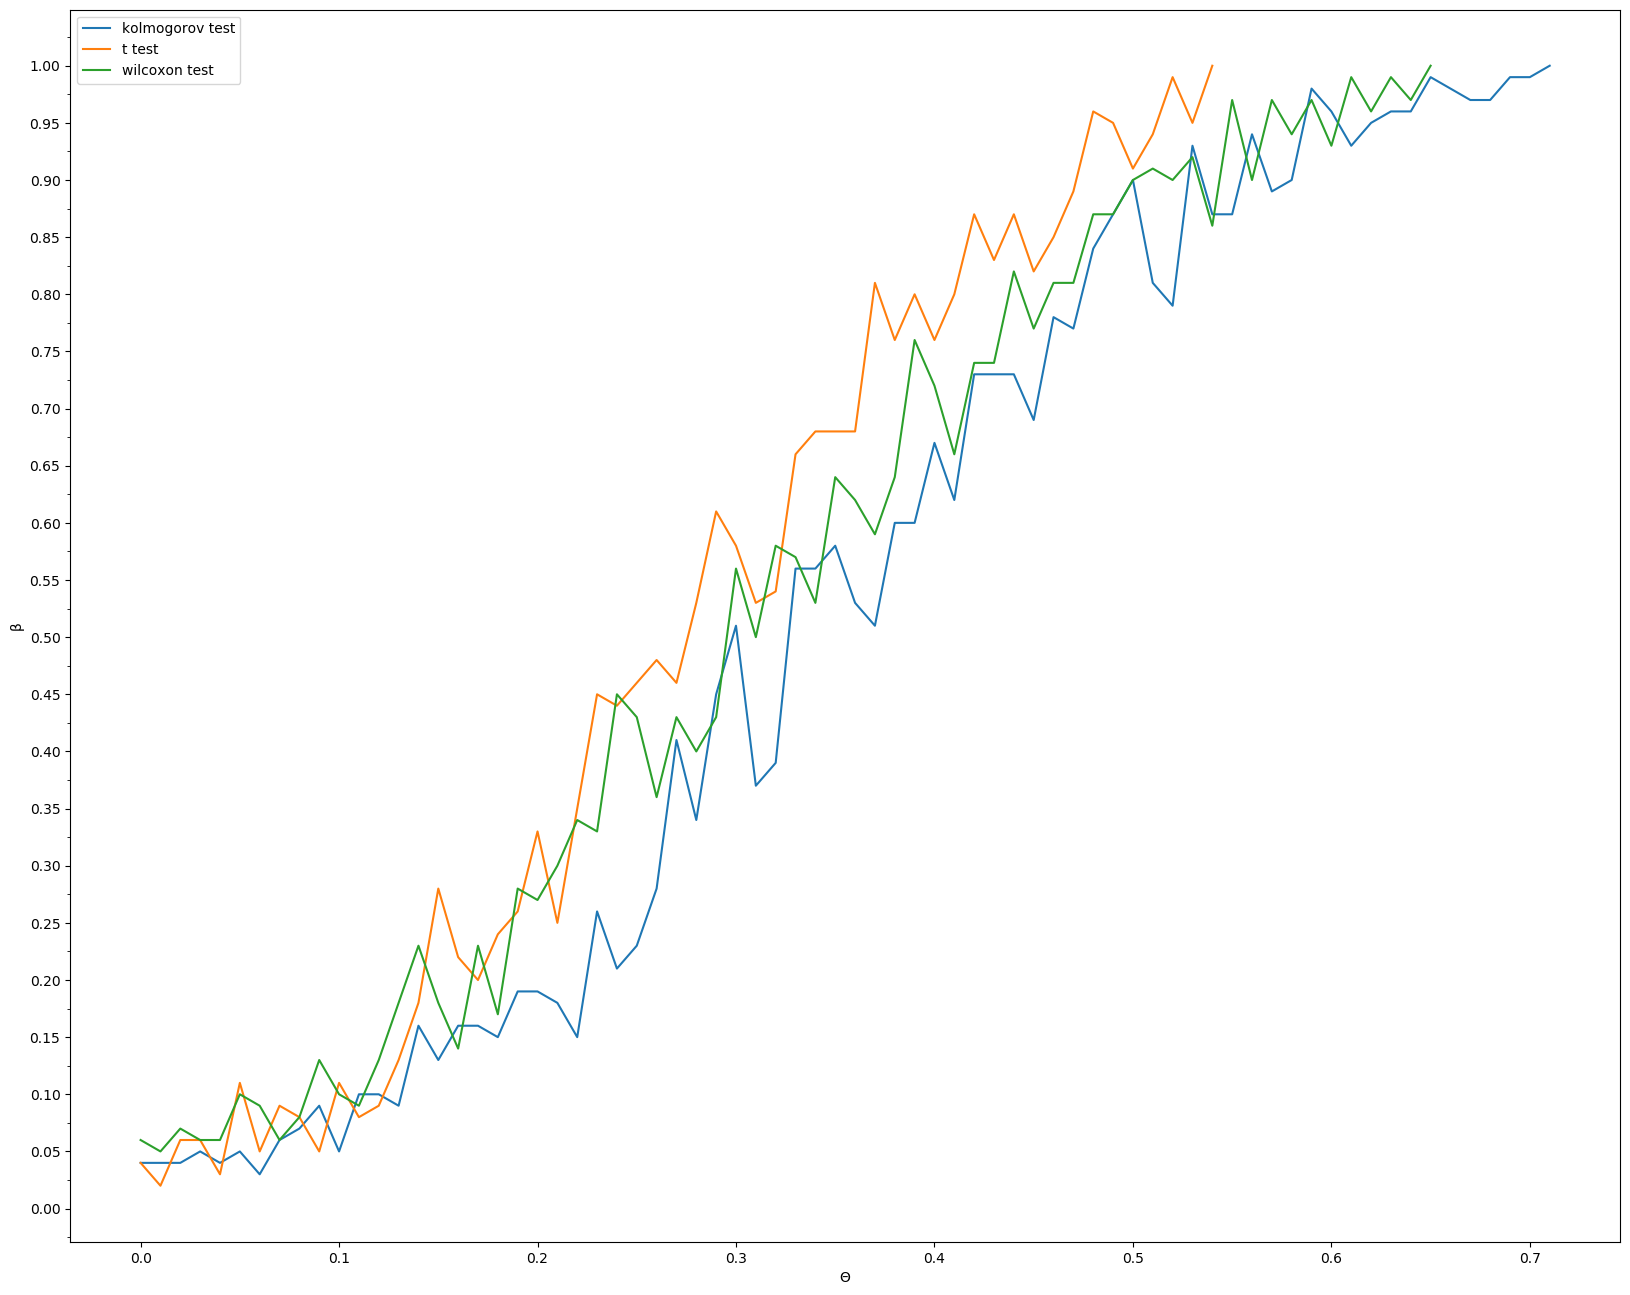
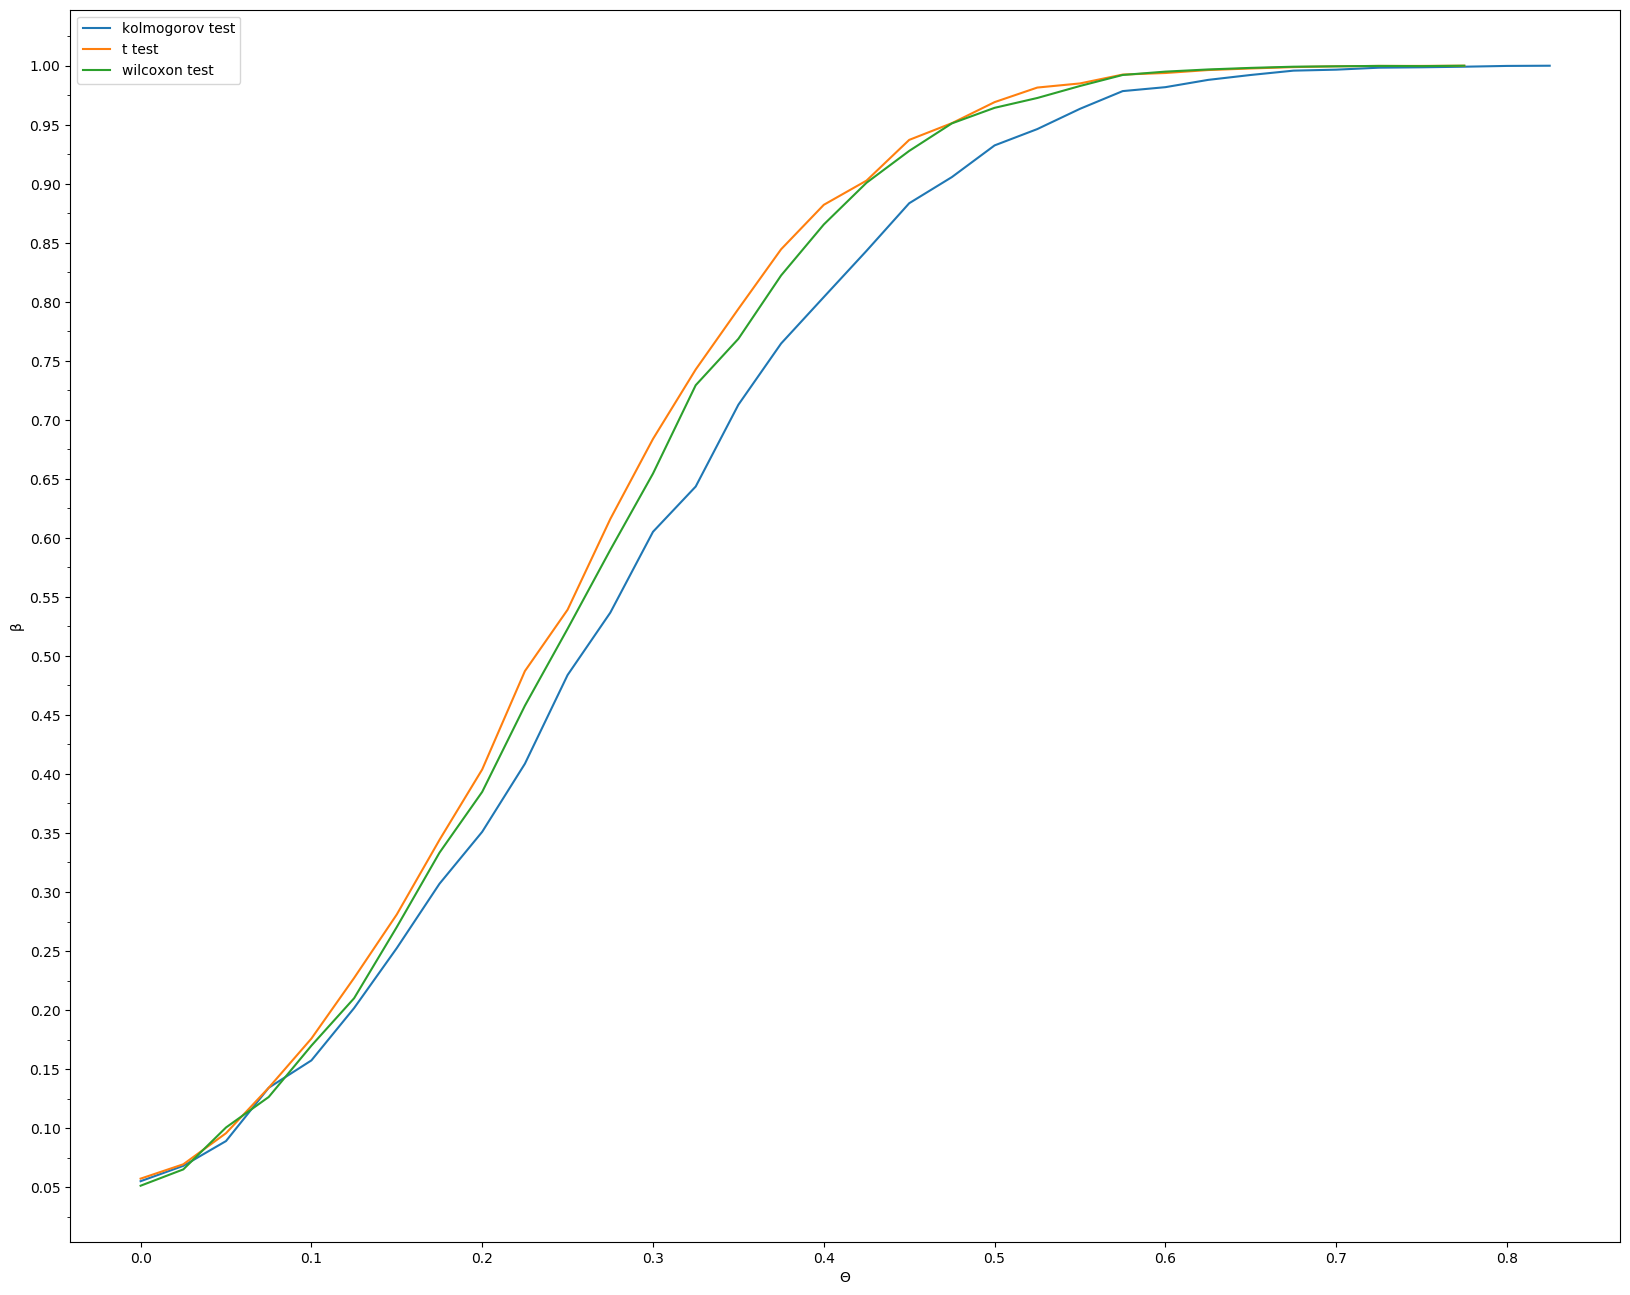
numba added

diff --git a/Hypothesis_testing/tests/kolmogorov_wilcoxon_test.py b/Hypothesis_testing/tests/kolmogorov_wilcoxon_test.py
@@ -1,17 +1,75 @@
-from matplotlib import ticker
-import os
-from testing import do_test
+from kolmogorov_test import kolmogorov_test
+from student_test import student_test
+from wilcoxon_test import wilcoxon_test
+import sample_generator
+import numpy as np
 import matplotlib.pyplot as plt
+import matplotlib.ticker as ticker
+import os
+from numba import jit
 
 SAMPLE_SIZE = 300
-DELTA = 0.1
-REPETITION = 10000
+DELTA = 0.025
+REPETITION = 3000
 ALPHA = 0.05
 FREEDOM_DEGREES = 5
 
+
+# @jit(nopython=True)
+def do_test(distribution, test, sample_size):
+    results = np.empty([1, 2])
+
+    shift = 0
+    while True:
+        count = 0
+        for i in range(REPETITION):
+            if distribution == 'normal':
+                x = sample_generator.generate_normal(sample_size, 0, 1)
+                y = sample_generator.generate_normal(sample_size, shift, 1)
+            elif distribution == 't':
+                x = sample_generator.generate_t(sample_size, FREEDOM_DEGREES, 0, 1)
+                y = sample_generator.generate_t(sample_size, FREEDOM_DEGREES, shift, 1)
+            elif distribution == 'uniform':
+                x = sample_generator.generate_uniform(sample_size, 0, 1)
+                y = sample_generator.generate_uniform(sample_size, shift, 1)
+            elif distribution == 'logistic':
+                x = sample_generator.generate_logistic(sample_size, 0, 1)
+                y = sample_generator.generate_logistic(sample_size, shift, 1)
+            elif distribution == 'laplace':
+                x = sample_generator.generate_laplace(sample_size, 0, 1)
+                y = sample_generator.generate_laplace(sample_size, shift, 1)
+            elif distribution == 'tukey':
+                x = sample_generator.generate_tukey(sample_size, 0, 1, 10)
+                y = sample_generator.generate_tukey(sample_size, shift, 1, 10)
+            else:
+                raise NotImplemented('No such distribution ' + distribution)
+
+            if test == 't':
+                if student_test(x, y, ALPHA):
+                    count += 1
+            elif test == 'wilcoxon':
+                if wilcoxon_test(x, y, ALPHA):
+                    count += 1
+            elif test == 'kolmogorov':
+                if kolmogorov_test(x, y, ALPHA):
+                    count += 1
+            else:
+                raise NotImplemented('No such test ' + test)
+
+        if shift == 0:
+            results[0] = [count / REPETITION, shift]
+        else:
+            results = np.vstack((results, np.array([count / REPETITION, shift])))
+        shift += DELTA
+        if results[-1, 0] == 1:
+            break
+
+    return results
+
+
 if __name__ == "__main__":
-    result_kolm = do_test('normal', 'kolmogorov', SAMPLE_SIZE)
-    result_wilcoxon = do_test('normal', 'wilcoxon', SAMPLE_SIZE)
+    result_kolm = do_test('normal', 'kolmogorov', 300)
+    result_wilcoxon = do_test('normal', 'wilcoxon', 300)
 
     fig, ax = plt.subplots()
 

diff --git a/Hypothesis_testing/testing.py b/Hypothesis_testing/testing.py
@@ -1,18 +1,21 @@
 from kolmogorov_test import kolmogorov_test
 from student_test import student_test
 from wilcoxon_test import wilcoxon_test
+from van_der_waerden import van_der_waerden_test
 import sample_generator
 import numpy as np
 import matplotlib.pyplot as plt
 import matplotlib.ticker as ticker
 import os
+from numba import jit
 
 DELTA = 0.025
-REPETITION = 100
+REPETITION = 6000
 ALPHA = 0.05
 FREEDOM_DEGREES = 5
 
 
+# @jit(nopython=True)
 def do_test(distribution, test, sample_size):
     results = np.empty([1, 2])
 
@@ -39,7 +42,7 @@ def do_test(distribution, test, sample_size):
                 x = sample_generator.generate_tukey(sample_size, 0, 1, 10)
                 y = sample_generator.generate_tukey(sample_size, shift, 1, 10)
             else:
-                raise NotImplemented('No such distribution ' + distribution)
+                print('No such distribution ' + distribution)
 
             if test == 't':
                 if student_test(x, y, ALPHA):
@@ -50,8 +53,11 @@ def do_test(distribution, test, sample_size):
             elif test == 'kolmogorov':
                 if kolmogorov_test(x, y, ALPHA):
                     count += 1
+            elif test == 'van_der_waerden':
+                if van_der_waerden_test(x, y, ALPHA):
+                    count += 1
             else:
-                raise NotImplemented('No such test ' + test)
+                print("No such test " + test)
 
         if shift == 0:
             results[0] = [count / REPETITION, shift]
@@ -67,11 +73,12 @@ def do_test(distribution, test, sample_size):
 if __name__ == "__main__":
     distribution = {0: 't', 1: 'normal', 2: 'tukey', 3: 'uniform', 4: 'logistic', 5: 'laplace'}
     sample_size = {0: 50, 1: 100, 2: 300, 3: 500}
-    for dist in range(6):
-        for size in range(4):
+    for dist in distribution.keys():
+        for size in sample_size.keys():
             result_kolm = do_test(distribution[dist], 'kolmogorov', sample_size[size])
             result_t = do_test(distribution[dist], 't', sample_size[size])
             result_wilcoxon = do_test(distribution[dist], 'wilcoxon', sample_size[size])
+            # result_van = do_test(distribution[dist], 'van_der_waerden', sample_size[size])
 
             fig, ax = plt.subplots()
 
@@ -81,10 +88,11 @@ if __name__ == "__main__":
 
             plt.xlabel('\u0398')
             plt.ylabel('\u03B2')
-
+            #
             ax.plot(result_kolm[:, 1], result_kolm[:, 0], label='kolmogorov test')
             ax.plot(result_t[:, 1], result_t[:, 0], label='t test')
             ax.plot(result_wilcoxon[:, 1], result_wilcoxon[:, 0], label='wilcoxon test')
+            # ax.plot(result_van[:, 1], result_van[:, 0], label='van der waerden test')
             ax.legend()
 
             fig.set_figwidth(20)

diff --git a/Hypothesis_testing/wilcoxon_test.py b/Hypothesis_testing/wilcoxon_test.py
@@ -2,17 +2,35 @@ import numpy as np
 import scipy.stats
 import math
 import sample_generator
+from numba import jit
 
 
+@jit(nopython=True)
 def wilcoxon_statistic(x, y):
-    x_extended = [(elem, 'x') for elem in x]
-    y_extended = [(elem, 'y') for elem in y]
-    w = np.concatenate((x_extended, y_extended))
-    w = sorted(w, key=lambda elem: elem[0])
+    x.sort()
+    y.sort()
+    w = np.zeros((x.shape[0] + y.shape[0], 2))
+    x_pos = 0
+    y_pos = 0
+    for i in range(x.shape[0] + y.shape[0]):
+        if x_pos == x.shape[0]:
+            w[i][0] = y[y_pos]
+            w[i][1] = 1
+            y_pos += 1
+        elif y_pos == y.shape[0]:
+            w[i][0] = x[x_pos]
+            x_pos += 1
+        elif x[x_pos] < y[y_pos]:
+            w[i][0] = x[x_pos]
+            x_pos += 1
+        else:
+            w[i][0] = y[y_pos]
+            w[i][1] = 1
+            y_pos += 1
 
     result = 0
     for i in range(len(w)):
-        if w[i][1] == 'y':
+        if w[i][1] == 1:
             result += i + 1
     mw = len(y) * (len(x) + len(y) + 1) / 2
     dw = len(x) * len(y) * (len(x) + len(y) + 1) / 12.
@@ -30,24 +48,16 @@ def wilcoxon_statistic(x, y):
     if bound_length > 1:
         bounds.append(bound_length)
 
-    residual_sum = 0
-    for elem in bounds:
-        residual_sum += elem * (elem ** 2 - 1)
-    dw -= len(x) * len(y) * residual_sum / (12 * (len(x) + len(y)) * (len(x) + len(y) - 1))
-    if dw < 0:
-        raise AssertionError("variance < 0 in wilcoxon test")
-
-    return result, mw, dw
+    return (result - mw) / math.sqrt(dw)
 
 
+# @jit(nopython=True)
 def wilcoxon_test(x, y, alpha):
-    w, mw, dw = wilcoxon_statistic(x, y)
-    standardized_w = (w - mw) / math.sqrt(dw)
+    # w, mw, dw = wilcoxon_statistic(x, y)
+    # standardized_w = (w - mw) / math.sqrt(dw)
+    standardized_w = wilcoxon_statistic(x, y)
     quantile = scipy.stats.norm.ppf(1 - alpha)
     return standardized_w > quantile
-    # p_value = scipy.stats.mannwhitneyu(x, y, alternative='less')[1]
-    # print(p_value < alpha)
-    # return p_value < alpha
 
 
 if __name__ == "__main__":

diff --git a/Hypothesis_testing/van_der_waerden.py b/Hypothesis_testing/van_der_waerden.py
@@ -1,26 +1,52 @@
 import numpy as np
 from scipy import stats
+from numba import jit
 
 
+@jit(nopython=True)
+def generate_array(x, y):
+    x.sort()
+    y.sort()
+    w = np.zeros((x.shape[0] + y.shape[0], 2))
+    x_pos = 0
+    y_pos = 0
+    for i in range(x.shape[0] + y.shape[0]):
+        if x_pos == x.shape[0]:
+            w[i][0] = y[y_pos]
+            w[i][1] = 1
+            y_pos += 1
+        elif y_pos == y.shape[0]:
+            w[i][0] = x[x_pos]
+            x_pos += 1
+        elif x[x_pos] < y[y_pos]:
+            w[i][0] = x[x_pos]
+            x_pos += 1
+        else:
+            w[i][0] = y[y_pos]
+            w[i][1] = 1
+            y_pos += 1
+
+    return w
+
+
+# @jit(nopython=True)
 def van_der_waerden_statistic(x, y):
-    x_extended = [(elem, 'x') for elem in x]
-    y_extended = [(elem, 'y') for elem in y]
-    w = np.concatenate((x_extended, y_extended))
-    w = sorted(w, key=lambda elem: elem[0])
+    w = generate_array(x, y)
 
     statistic = 0
     variance = 0
     for i in range(len(w)):
-        if w[i] == 'y':
-            statistic += stats.norm.ppf(i + 1 / (len(x) + len(y) + 1))
-        variance += stats.norm.ppf(i + 1 / (len(x) + len(y) + 1)) ** 2
+        if w[i][1] == '1':
+            statistic += stats.norm.ppf((i + 1) / (len(x) + len(y) + 1))
+        variance += stats.norm.ppf((i + 1) / (len(x) + len(y) + 1)) ** 2
 
     variance *= len(x) * len(y) / (len(x) + len(y)) / (len(x) + len(y) - 1)
     return statistic, variance
 
 
+# @jit(nopython=True)
 def van_der_waerden_test(x, y, alpha):
     quantile = stats.norm.ppf(1 - alpha / 2)
     statistic, variance = van_der_waerden_statistic(x, y)
-    statistic /= variance
+    statistic /= np.sqrt(variance)
     return statistic < -quantile or statistic > quantile

diff --git a/Hypothesis_testing/student_test.py b/Hypothesis_testing/student_test.py
@@ -1,14 +1,19 @@
 import math
 import numpy as np
 import scipy.stats
+from numba import jit
 
 
+@jit(nopython=True)
 def student_statistic(x, y):
     std = math.sqrt((len(x) * np.var(x) + len(y) * np.var(y)) / (len(x) + len(y) - 2))
     t_value = (np.mean(y) - np.mean(x)) / (std * math.sqrt(1 / len(x) + 1 / len(y)))
     return t_value
 
 
+# @jit(nopython=True)
 def student_test(x, y, alpha):
-    quantile = scipy.stats.t.ppf(1 - alpha / 2, len(x) + len(y) - 2)
-    return student_statistic(x, y) > quantile or student_statistic(x, y) < -quantile
+    # quantile = scipy.stats.t.ppf(1 - alpha / 2, len(x) + len(y) - 2)
+    # return student_statistic(x, y) > quantile or student_statistic(x, y) < -quantile
+    quantile = scipy.stats.t.ppf(1 - alpha, len(x) + len(y) - 2)
+    return student_statistic(x, y) > quantile

diff --git a/Hypothesis_testing/kolmogorov_test.py b/Hypothesis_testing/kolmogorov_test.py
@@ -1,7 +1,9 @@
 import scipy.stats
+from numba import jit
 
 
+# @jit(nopython=True)
 def kolmogorov_test(x, y, alpha):
-    # p_value = scipy.stats.ks_2samp(x, y, alternative='greater', mode='asymp')[1]
-    p_value = scipy.stats.ks_2samp(x, y, mode='asymp')[1]
+    p_value = scipy.stats.ks_2samp(x, y, alternative='greater', mode='asymp')[1]
+    # p_value = scipy.stats.ks_2samp(x, y, mode='asymp')[1]
     return p_value < alpha

diff --git a/Hypothesis_testing/tests/numba_test.py b/Hypothesis_testing/tests/numba_test.py
@@ -1,0 +1,15 @@
+from numba import jit
+import numpy as np
+
+
+def abc(x):
+    return x
+
+
+@jit
+def test_numpy():
+    return abc(1)
+
+
+if __name__ == "__main__":
+    test_numpy()
